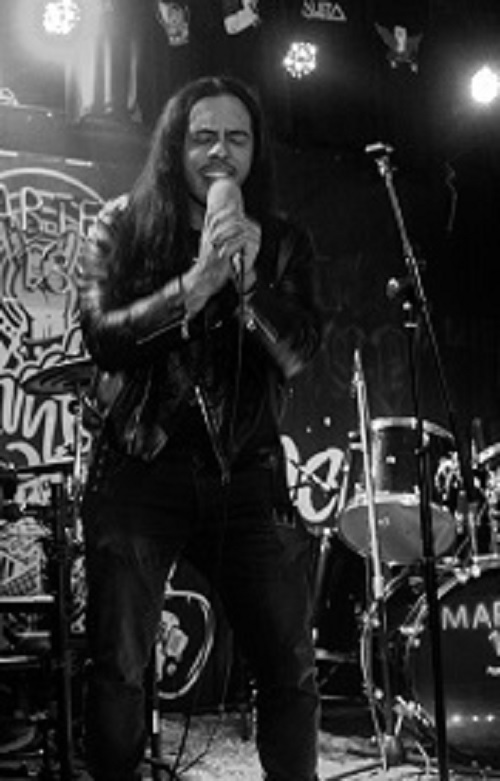
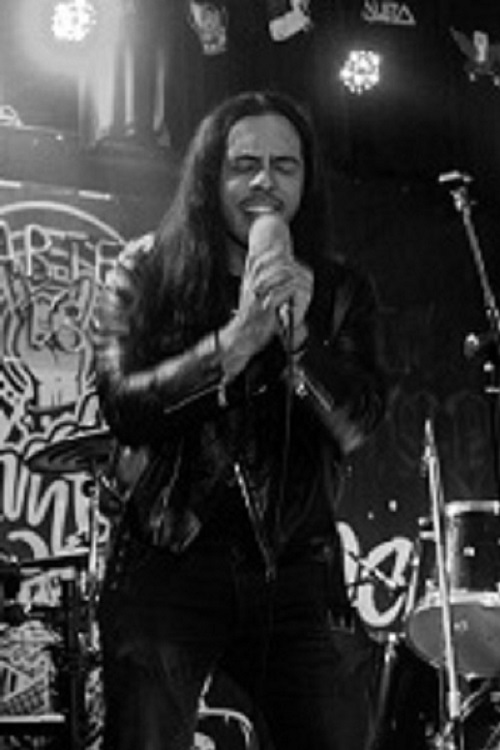
varios cambios
cambia imagen de fondo. saca logo de pagina principal, agrega historia baterista y agrega link a integrantes

diff --git a/about.html b/about.html
@@ -66,7 +66,7 @@
         <h2>Historia</h2>
         <p>
             Trashplan es un proyecto musical de dos amigos paranaenses, 
-            <b>Javier Tortul</b> en guitarra y <b>Alejandro Mayor</b> en batería. 
+            <a href="#guitara">Javier Tortul</a> en guitarra y <a href="#bateria">Alejandro Mayor</a> en batería. 
             Su propuesta, con temas propios, se encuadra dentro del amplio género del Metal. 
             El nombre del grupo se relaciona, por un lado, inmediatamente con un estilo musical conocido,  
             un sub genero denominado Thrash dentro del Metal; y por otro lado, 
@@ -77,8 +77,8 @@
             En octubre de 2020 Trashplan logra grabar la canción “Madre”, realizando además un video que se subió a la plataforma 
             de Youtube. Esto se logró con la participación de <b>Silvio Córdoba</b> en voz y <b>Lucio Segovia</b> en bajo, 
             amigos y miembros de la banda <b>Torke</b> de la ciudad de Rafaela, Santa Fe. En los teclados Miqueas Pesos de nuestra ciudad. 
-            En marzo de 2021 se sumó al proyecto el bajista <b>Lautaro Pennacchi</b> y en marzo de 2022 lo hizo <b>Darío Pitassi</b> como cantante; <br>
-            actualmente Luis Yelpo retoma como cantante que juntos a Javier, Alejandro y Lautaro, ha quedado conformada de esta manera la banda.
+            En marzo de 2021 se sumó al proyecto el bajista <a href="#bajo">Lautaro Pennacchi</a> y en marzo de 2022 lo hizo <b>Darío Pitassi</b> como cantante; <br>
+            actualmente <a href="#cantante">Luis Yelpo</a> retoma como cantante que juntos a Javier, Alejandro y Lautaro, ha quedado conformada de esta manera la banda.
         </p>
     </section>
 <!-- Fin seccion HISTORIA     -->
@@ -88,9 +88,9 @@
         <h2>INTEGRANTES</h2>
         <div class="photos-integrantes">
             <article>
-                <h3>GUITARRA: Javier Tortul</h3>
+                <h3 id="guitarra">Javier Tortul (Guitarra)</h3>
                 <img src="images/integrantes/guitarra.jpg" alt="A photo" />
-                <p class="trayectoria">Javier Tortul: Lorem ipsum dolor sit amet, consectetur adipisicing elit, sed do eiusmod
+                <p>Lorem ipsum dolor sit amet, consectetur adipisicing elit, sed do eiusmod
                 tempor incididunt ut labore et dolore magna aliqua. Ut enim ad minim veniam,
                 quis nostrud exercitation ullamco laboris nisi ut aliquip ex ea commodo
                 consequat. Duis aute irure dolor in reprehenderit in voluptate velit esse
@@ -98,19 +98,20 @@
                 proident, sunt in culpa qui officia deserunt mollit anim id est laborum.</p>
             </article>
             <article>
-                <h3>BATERIA: Alejandro Mayor</h3>
+                <h3 id="bateria">Alejandro Mayor (Bateria)</h3>
                 <img src="images/integrantes/bateria.jpg" alt="A photo" />
-                <p class="trayectoria">Alejandro Mayor: Lorem ipsum dolor sit amet, consectetur adipisicing elit, sed do eiusmod
-                tempor incididunt ut labore et dolore magna aliqua. Ut enim ad minim veniam,
-                quis nostrud exercitation ullamco laboris nisi ut aliquip ex ea commodo
-                consequat. Duis aute irure dolor in reprehenderit in voluptate velit esse
-                cillum dolore eu fugiat nulla pariatur. Excepteur sint occaecat cupidatat non
-                proident, sunt in culpa qui officia deserunt mollit anim id est laborum. </p>
+                <p>Baterista de Trashplan, letrista y diseño gráfico. 
+                Bandas anteriores Electra, Arcano y Consummatum. 
+                Gnóstico y melómano de amplio rango apasionado por el Metal. 
+                Ingeniero Civil y Coordinador de proyectos de los caminos de
+                Vialidad de la provincia de Entre Ríos.
+                Casado y papá de dos hijos; Miriel y Elías.
+                </p>
             </article>
             <article>
-                <h3>CANTANTE: Luis Yelpo</h3>
+                <h3 id="cantante">Luis Yelpo (Cantante)</h3>
                 <img src="images/integrantes/cantante.jpg" alt="A photo" />
-                <p class="trayectoria">Luis Yelpo: Lorem ipsum dolor sit amet, consectetur adipisicing elit, sed do eiusmod
+                <p>Lorem ipsum dolor sit amet, consectetur adipisicing elit, sed do eiusmod
                 tempor incididunt ut labore et dolore magna aliqua. Ut enim ad minim veniam,
                 quis nostrud exercitation ullamco laboris nisi ut aliquip ex ea commodo
                 consequat. Duis aute irure dolor in reprehenderit in voluptate velit esse
@@ -118,9 +119,9 @@
                 proident, sunt in culpa qui officia deserunt mollit anim id est laborum. </p>
             </article>
             <article>
-                <h3>BAJO: Lautaro Pennacchi</h3>
+                <h3 id="bajo">Lautaro Pennacchi (Bajo)</h3>
                 <img src="images/integrantes/bajo.jpg" alt="A photo" />
-                <p class="trayectoria">Lautaro Pennacchi: Lorem ipsum dolor sit amet, consectetur adipisicing elit, sed do eiusmod
+                <p>Lorem ipsum dolor sit amet, consectetur adipisicing elit, sed do eiusmod
                 tempor incididunt ut labore et dolore magna aliqua. Ut enim ad minim veniam,
                 quis nostrud exercitation ullamco laboris nisi ut aliquip ex ea commodo
                 consequat. Duis aute irure dolor in reprehenderit in voluptate velit esse

diff --git a/css/responsive.css b/css/responsive.css
@@ -19,20 +19,25 @@
         height: auto; /*se ajusta a su contenido*/
         flex-direction: row; /*para cambiar el menu de columna a fila*/
         position: static; /*saca la posicion absoluta del mobile first*/
-        width: 60%; /*achica tamaño menubar*/
+        width: 65%; /*achica tamaño menubar*/
     }
+    /*tamaño logo*/
     .brand-link img{
-        width: 300px;
-        max-height: 85%;
-        max-width: 85%;
+        max-height: 100%;
+        max-width: 100%;
     }
-
 /*------ FIN MENU NAV------*/
+
+/*---INICIO index----*/
     .fondo, .fondo img{
-        margin: 0;
-        text-align: center;
-        height: 350px;
+        height: 500px;
+    }
+    .texto-bg p {
+        margin: 20px 90px;
+        font-size: 25px;
     }    
+/*---FIN index----*/
+
 
     .conciertos {
         font-size: 1.5em;
@@ -53,13 +58,6 @@
         margin: auto;
     }
     
-    .div-logo{
-        height: 250px;
-    }
-    .div-logo img {
-        max-height: 100%;
-        max-width: 100%;
-    }
     .photos-integrantes {
         display: grid;
         grid-template-columns: repeat(2, 1fr);
@@ -73,12 +71,12 @@
 
     .photos-integrantes p{
         display: flex;
+        padding: 5px 20px;
+        align-items: center;
+        text-align: center;
     }
     
-    .texto-bg p {
-        margin: 20px 90px;
-        font-size: 30px;
-    }
+    
     #historia p {
         padding: 0 60px 20px 60px;
         font-size: 20px;

diff --git a/css/estilo.css b/css/estilo.css
@@ -79,8 +79,8 @@ a{
 /*tamaño logo*/
 .brand-link img{
     width: 400px;
-    max-height: 45%;
-    max-width: 45%;
+    max-height: 75%;
+    max-width: 75%;
 }
 /*contenedor menu desplegado con opciones*/
 .navbar-container{
@@ -130,37 +130,28 @@ a{
 
 
 
-/* -------------------------INICIO INDEX-Section-Principal-------------------*/
+/* -------------------------INICIO INDEX-------------------*/
 /* alinea todo al centro*/
-.section-principal, .div-logo, .texto-bg  {
+.fondo, .fondo img{
+    margin: 15px;
+    text-align: center;
+    height: 350px;
+}
+.texto-bg  {
     align-items: center;
     text-align: center;
 }
-
-.fondo, .fondo img{
-    margin: 0;
-    text-align: center;
-    height: 250px;
-}
-
-
-.div-logo{
-    height: 175px;
-}
-
-.div-logo img {
-    max-height: 75%;
-    max-width: 75%;
-}
-
 
 .texto-bg p {
     color: rgb(179, 185, 206);
     margin: 20px 60px;
     font-family: 'Franklin Gothic Medium';
-    font-size: 20px;
+    font-size: 15px;
 }
-/*-----------------------------------FIN-INDEX Section-Principal------------------------------------*/
+/*-----------------------------------FIN-INDEX------------------------------------*/
+
+
+
 
 .linea {
     border-top: 1px solid red;

diff --git a/index.html b/index.html
@@ -64,14 +64,7 @@
 
 
 
-<!----------------- Inicio secciones----- --> 
-    <section class="section-logo">
-        <div class="div-logo">
-            <img src="images/log_nuevo.png">
-        </div> 
-     </section>  
-    <!-- Fin secciones     -->
-  
+
 
     <!-- Inicio secciones    -->
     <section class="fondo">
